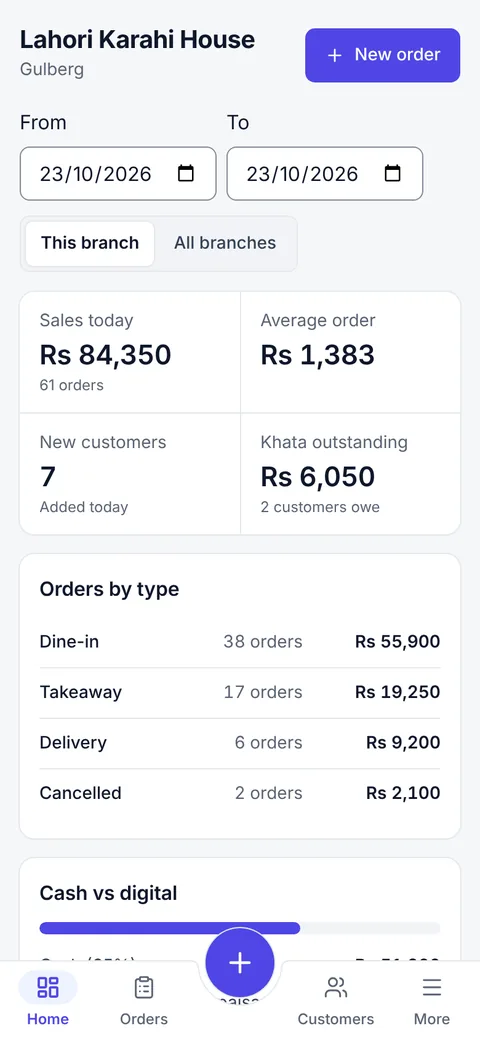
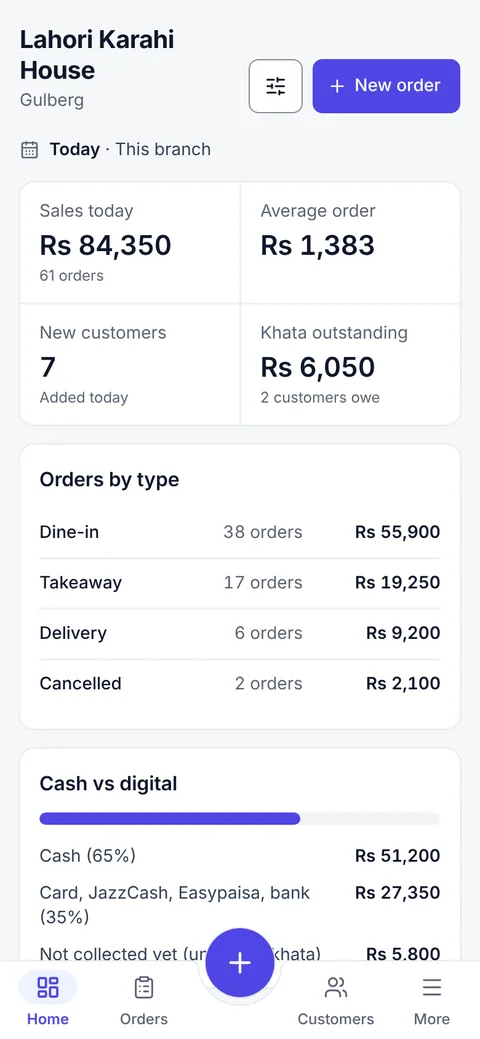
Landing: Filter button left of New order in the phones, and new screenshots of the app's Home
The hero phone and the tour's last step put the Filter button left of New order (the long restaurant name wraps to
two lines, as in the app), with the "Today · This branch" line under the header. The hero's numbers match the demo
data of the screenshots. The laptop and phone screenshots (six sizes) are retaken from the current web app.

Claude-Session: https://claude.ai/code/session_01KfsHXn51DRRwi8DtAitDAo

diff --git a/site/pages/home_page/hero_stage.tsx b/site/pages/home_page/hero_stage.tsx
@@ -16,13 +16,13 @@ const TYPES = [
   ['Dine-in', '38 orders', 'Rs 55,900'],
   ['Takeaway', '17 orders', 'Rs 19,250'],
   ['Delivery', '6 orders', 'Rs 9,200'],
-  ['Cancelled', '2 orders', 'Rs 1,850'],
+  ['Cancelled', '2 orders', 'Rs 2,100'],
 ];
 
 const SPLIT = [
-  ['Cash (41%)', 'Rs 31,200'],
-  ['Card, JazzCash, Easypaisa, bank (59%)', 'Rs 44,900'],
-  ['Not collected yet (unpaid or khata)', 'Rs 8,250'],
+  ['Cash (65%)', 'Rs 51,200'],
+  ['Card, JazzCash, Easypaisa, bank (35%)', 'Rs 27,350'],
+  ['Not collected yet (unpaid or khata)', 'Rs 5,800'],
 ];
 
 /** One thing happening somewhere in the restaurant: a note beside the phone (under it on a phone screen). */
@@ -51,27 +51,27 @@ export default function HeroStage() {
             <div className="min-h-0 flex-1 overflow-hidden">
               {/* The app at 384px wide, zoomed to the screen's 262px (17.5rem less the bezels). */}
               <div className="flex w-[384px] flex-col gap-4 px-4 pt-2 [zoom:0.682]">
-                <div className="flex items-end justify-between gap-4">
+                <div className="flex items-end justify-between gap-3 pb-1">
                   <div className="min-w-0">
-                    <p className="truncate text-[1.25rem] leading-tight font-semibold tracking-[-0.015em] text-ink">Lahori Karahi House</p>
+                    <p className="text-[1.25rem] leading-tight font-semibold tracking-[-0.015em] text-ink">Lahori Karahi House</p>
                     <p className="mt-0.5 text-sm text-app-muted">Gulberg</p>
                   </div>
-                  <span className="flex h-11 shrink-0 items-center gap-2 rounded-app-control bg-indigo px-4 text-sm font-medium text-white">
-                    <Plus className="size-4" />
-                    New order
-                  </span>
-                </div>
-                <div className="flex items-center justify-between gap-3">
-                  <p className="flex items-center gap-2 text-sm text-app-body">
-                    <CalendarDays className="size-4 text-app-muted" />
-                    <span>
-                      <span className="font-semibold text-ink">Today</span> · This branch
+                  <div className="flex shrink-0 items-center gap-2">
+                    <span className="grid size-11 place-items-center rounded-app-control border border-app-border-strong bg-paper text-ink">
+                      <SlidersHorizontal className="size-[18px]" />
                     </span>
-                  </p>
-                  <span className="grid size-11 place-items-center rounded-app-control border border-app-border-strong bg-paper text-ink">
-                    <SlidersHorizontal className="size-[18px]" />
-                  </span>
+                    <span className="flex h-11 items-center gap-2 rounded-app-control bg-indigo px-4 text-sm font-medium text-white">
+                      <Plus className="size-4" />
+                      New order
+                    </span>
+                  </div>
                 </div>
+                <p className="flex items-center gap-2 text-sm text-app-body">
+                  <CalendarDays className="size-4 text-app-muted" />
+                  <span>
+                    <span className="font-semibold text-ink">Today</span> · This branch
+                  </span>
+                </p>
                 <div className="grid grid-cols-2 overflow-hidden rounded-app-card bg-paper shadow-[0_0_0_1px_var(--color-app-border)]">
                   {STATS.map((stat, index) => (
                     <div key={stat.label} className={`border-app-border px-4 py-3.5 ${index % 2 === 0 ? 'border-e' : ''} ${index < 2 ? 'border-b' : ''}`}>
@@ -94,7 +94,7 @@ export default function HeroStage() {
                 <div className="rounded-app-card bg-paper p-4 shadow-[0_0_0_1px_var(--color-app-border)]">
                   <p className="mb-3 font-semibold text-ink">Cash vs digital</p>
                   <p className="mb-4 h-2.5 overflow-hidden rounded-full bg-app-sunken">
-                    <span className="block h-full w-[41%] rounded-full bg-indigo" />
+                    <span className="block h-full w-[65%] rounded-full bg-indigo" />
                   </p>
                   {SPLIT.map(([label, total]) => (
                     <p key={label} className="mt-2.5 flex justify-between gap-4 text-sm text-app-body first-of-type:mt-0">

diff --git a/site/pages/home_page/order_tour/paid_scene.tsx b/site/pages/home_page/order_tour/paid_scene.tsx
@@ -1,5 +1,5 @@
-import { CircleCheck, Plus, X } from 'lucide-react';
-import HomeFilterRow from './home_filter_row';
+import { CircleCheck, Plus, SlidersHorizontal, X } from 'lucide-react';
+import HomeFilterLine from './home_filter_line';
 import StaffNav from './staff_nav';
 import StatusBar from './status_bar';
 import tourAt from '../../../utils/tour_at';
@@ -22,16 +22,21 @@ export default function PaidScene() {
     <div className="relative flex h-full flex-col bg-canvas">
       <StatusBar time="8:12" />
       <div className="flex items-end justify-between gap-2 px-3 pt-1">
-        <div>
+        <div className="min-w-0">
           <p className="text-[0.85rem] leading-tight font-semibold text-ink">Lahori Karahi House</p>
           <p className="text-[0.6rem] text-app-muted">Gulberg</p>
         </div>
-        <span className="flex h-[1.85rem] items-center gap-1 rounded-[5px] bg-indigo px-2.5 text-[0.6rem] font-medium text-white">
-          <Plus className="size-3" />
-          New order
-        </span>
+        <div className="flex shrink-0 items-center gap-1.5">
+          <span className="grid size-[1.85rem] place-items-center rounded-[5px] border border-app-border-strong bg-paper text-ink">
+            <SlidersHorizontal className="size-3" />
+          </span>
+          <span className="flex h-[1.85rem] items-center gap-1 rounded-[5px] bg-indigo px-2.5 text-[0.6rem] font-medium text-white">
+            <Plus className="size-3" />
+            New order
+          </span>
+        </div>
       </div>
-      <HomeFilterRow />
+      <HomeFilterLine />
       <div className="mx-3 mt-3 grid grid-cols-2 overflow-hidden rounded-[8px] bg-paper text-ink shadow-slip">
         <div className="border-e border-b border-rule p-3">
           <p className="text-[0.6rem] text-ink-3">Sales today</p>
@@ -59,8 +64,8 @@ export default function PaidScene() {
         <div className="mt-2 flex h-1.5 overflow-hidden rounded-full bg-canvas">
           <span className="w-[46%] rounded-full bg-indigo" />
         </div>
-        <p className="mt-1.5 flex justify-between gap-3"><span>Cash (46%)</span><span className="font-semibold text-ink">Rs 38,800</span></p>
-        <p className="flex justify-between gap-3"><span>Card, JazzCash, Easypaisa, bank (54%)</span><span className="font-semibold text-ink">Rs 45,550</span></p>
+        <p className="mt-1.5 flex justify-between gap-3"><span>Cash (46%)</span><span className="font-semibold whitespace-nowrap text-ink">Rs 38,800</span></p>
+        <p className="flex justify-between gap-3"><span>Card, JazzCash, Easypaisa, bank (54%)</span><span className="font-semibold whitespace-nowrap text-ink">Rs 45,550</span></p>
       </div>
 
       {/* Order #1's Pay sheet, over the board. */}

diff --git a/site/pages/home_page/order_tour/home_filter_line.tsx b/site/pages/home_page/order_tour/home_filter_line.tsx
@@ -1,0 +1,13 @@
+import { CalendarDays } from 'lucide-react';
+
+/** Home's quiet line under the header saying what the numbers are for, as the app draws it at two thirds of its size. */
+export default function HomeFilterLine() {
+  return (
+    <p className="mx-3 mt-2.5 flex items-center gap-1.5 text-[0.62rem] text-app-body">
+      <CalendarDays className="size-3 text-app-muted" />
+      <span>
+        <span className="font-semibold text-ink">Today</span> · This branch
+      </span>
+    </p>
+  );
+}
